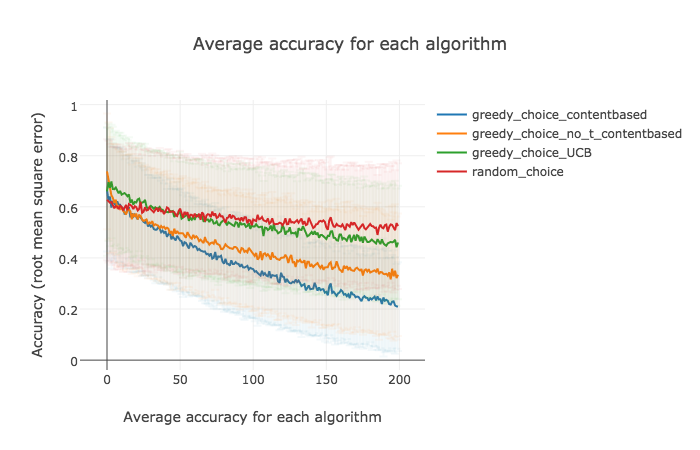
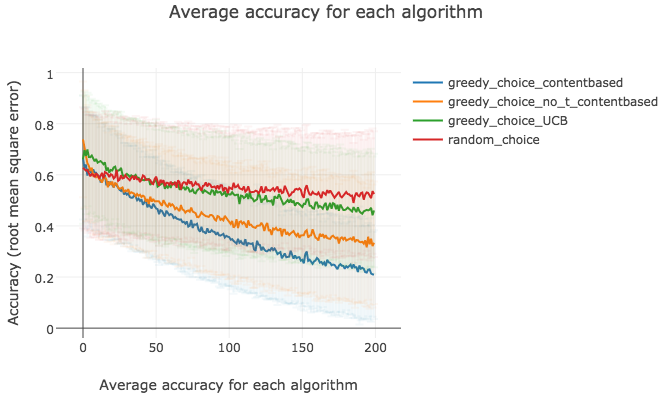
[enh] crop images

diff --git a/report/recommendation-rl.tex b/report/recommendation-rl.tex
@@ -220,7 +220,44 @@ The last metric is the time needed to compute a recommendation. Indeed, usually 
 % ------ results -------
 \section{Results} \label{results}
 
-\todo{simple result of adaptation of music paper to movie paper avec greedy vs random}
+This section will explore the different results obtained throughout all experiments made.
+
+\subsection{Adaptation of \cite{main} to movie recommendation}
+
+Here are the results of the adaptation of \cite{main} to movie recommendation using a greedy algorithm and the same content based model as described in that paper.
+
+\begin{figure}[H]
+\begin{center}
+\includegraphics[width=0.47\textwidth]{img/greedy0.png}
+\caption{capt0}
+\label{greedy0}
+\end{center}
+\end{figure}
+
+\begin{figure}[H]
+\begin{center}
+\includegraphics[width=0.47\textwidth]{img/greedy1.png}
+\caption{capt1}
+\label{greedy1}
+\end{center}
+\end{figure}
+
+\begin{figure}[H]
+\begin{center}
+\includegraphics[width=0.47\textwidth]{img/greedy2.png}
+\caption{capt2}
+\label{schema2}
+\end{center}
+\end{figure}
+
+\begin{figure}[H]
+\begin{center}
+\includegraphics[width=0.47\textwidth]{img/greedy3.png}
+\caption{capt3}
+\label{greedy3}
+\end{center}
+\end{figure}
+
 
 \subsection{Bayesian methods}
 
@@ -231,7 +268,7 @@ The last metric is the time needed to compute a recommendation. Indeed, usually 
 
 \begin{figure}[H]
 \begin{center}
-\includegraphics[width=3.4in]{img/collabo1.png}
+\includegraphics[width=0.47\textwidth]{img/collabo1.png}
 \caption{Average regret}
 \label{schema}
 \end{center}
@@ -254,6 +291,7 @@ The last metric is the time needed to compute a recommendation. Indeed, usually 
 
 \todo{futur work, what could be done if you give me 10 IA guys for a week}
 % combined content based and collaborative filtering
+% comparer avec une approche supervisé
 
 \todo{futur work, real-life data, bias evaluation, big data toussa toussa}
 
